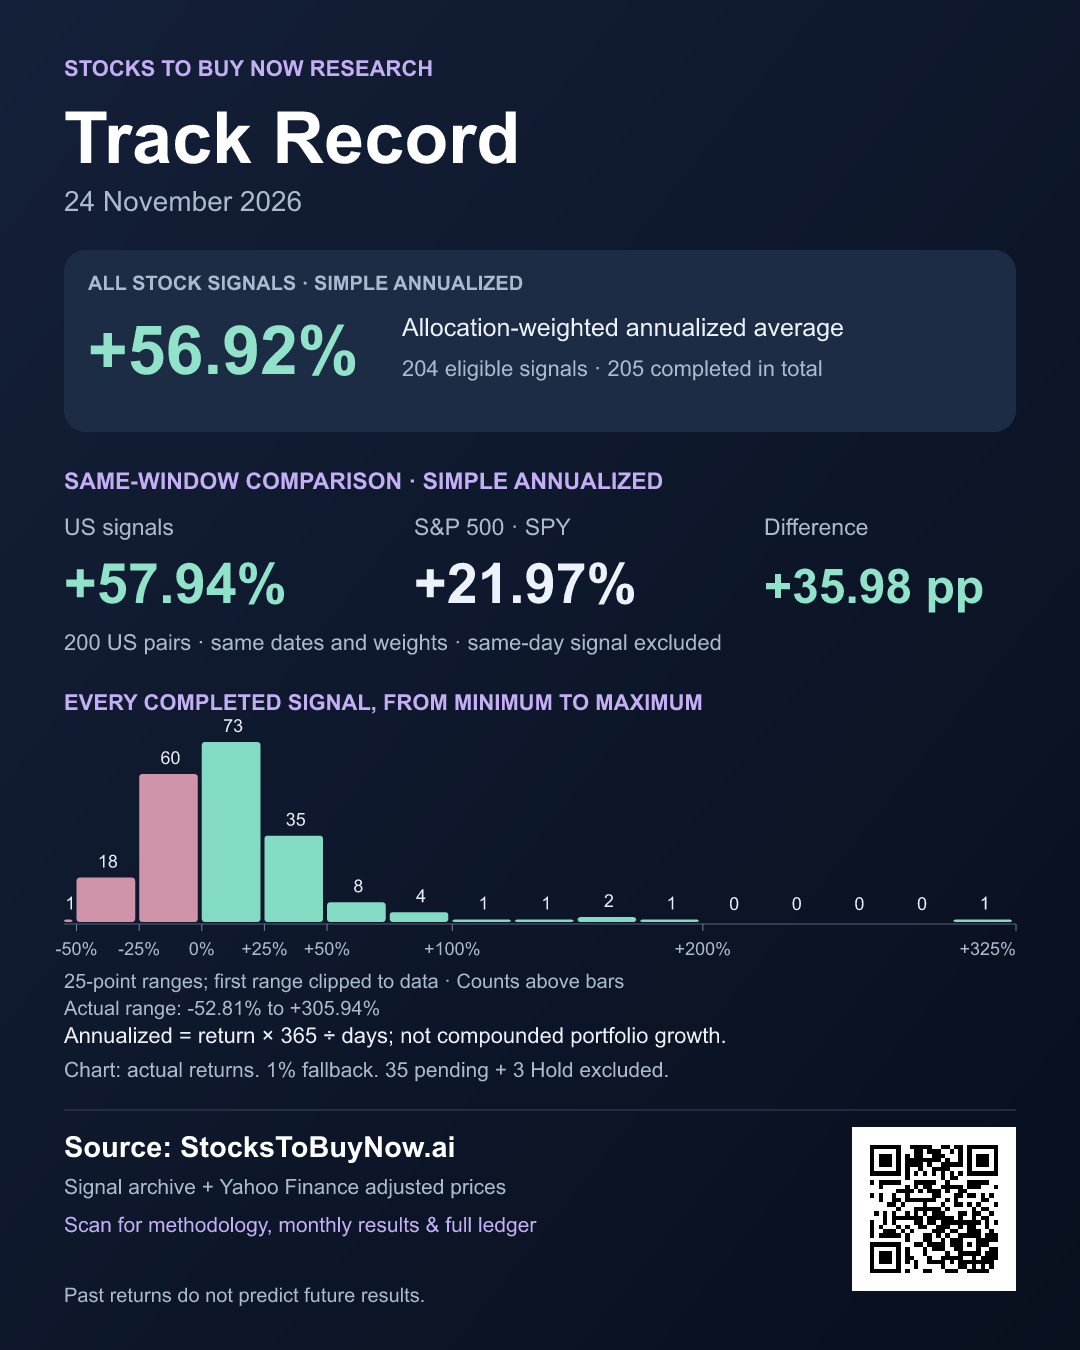
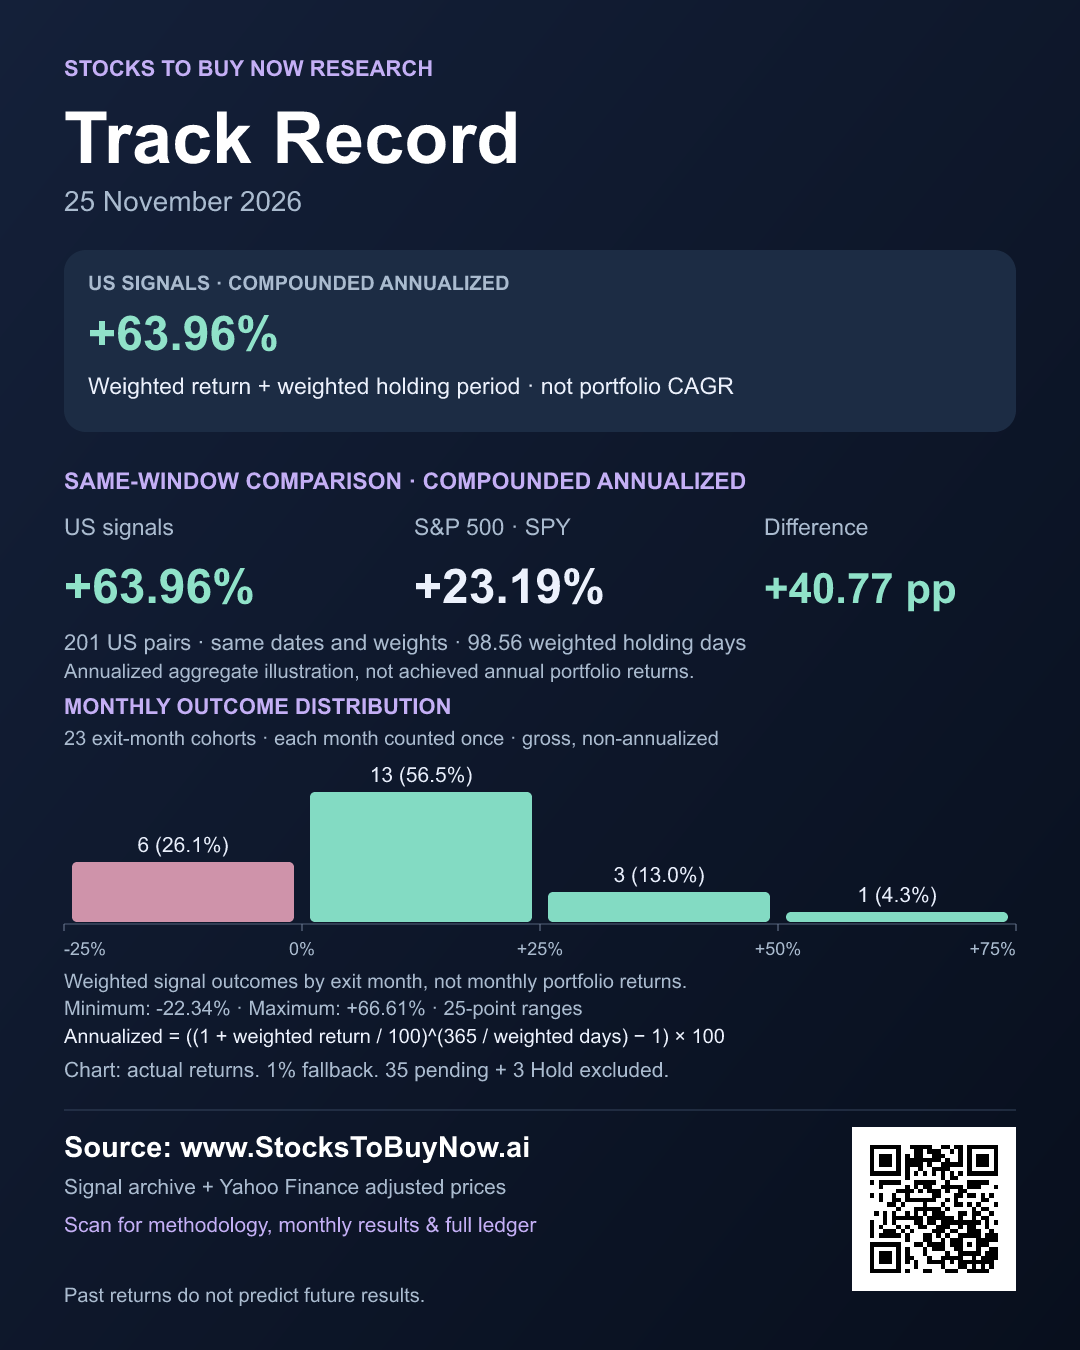
add monthly distrib

diff --git a/pages/methodology.tsx b/pages/methodology.tsx
@@ -5,9 +5,18 @@ import {accountLoginUrl} from "../lib/site-auth";
 import report from "../data/target-date-performance-2025-12-31.json";
 import distribution from "../data/signal-return-distribution-2025-12-31.json";
 const s = report.summary;
+const monthlyReturns = s.months.map(month => month.meanReturnPct);
+const monthlyMin = Math.min(...monthlyReturns), monthlyMax = Math.max(...monthlyReturns);
+const monthlyBinStart = Math.floor(monthlyMin / 25) * 25;
+const monthlyBins = Array.from({length: Math.floor((monthlyMax - monthlyBinStart) / 25) + 1}, (_, index) => {
+ const low = monthlyBinStart + index * 25, high = low + 25;
+ return {low, high, count: monthlyReturns.filter(value => value >= low && value < high).length};
+});
+const annual = distribution.compoundedAnnualized;
+const annualPct = (n: number) => pct(n);
 const pct = (n: number | null) => n === null ? '—' : `${n > 0 ? '+' : ''}${n.toFixed(2)}%`;
 const cutoff = new Date(`${report.asOf}T12:00:00Z`).toLocaleDateString('en-US', {month:'long',day:'numeric',year:'numeric',timeZone:'UTC'});
-export default function Methodology() {
+export default function Methodology({appView=false}:{appView?:boolean}={}) {
  const {desktop,user}=useSiteAccount();
  const practiceDestination='/methodology/#paper-trading-download';
  return <ResearchPage title="Stock signals scorecard and research methodology" path="/methodology" hideResearchNavigation>
@@ -17,13 +26,22 @@ export default function Methodology() {
    <p>Historical stock signals evaluated through <strong>{cutoff}</strong>, inclusive. Returns run from the first eligible session open after publication to the close on the saved Target Sell Date.</p>
    </header><nav aria-label="Methodology sections"><a href="#scorecard">Scorecard</a><a href="#monthly">Monthly cohorts</a><a href="#ledger">Download ledger</a><a href="#credentials">Credentials</a><a href="#methodology">Methodology</a><a href="#faq">FAQ</a></nav>
    <section id="scorecard" aria-label="Stock signals scorecard"><div className="score-grid">
-    <div className="primary-stat"><span>US signals · weighted gross return</span><strong>{pct(s.meanPairedReturnPct)}</strong><small>Simple annualized: {pct(distribution.annualized.signalPct)}<br/>Same dates and weights as SPY · 1% fallback</small></div>
-    <div className="primary-stat"><span>S&amp;P 500 · matched SPY return</span><strong>{pct(s.meanBenchmarkPct)}</strong><small>Simple annualized: {pct(distribution.annualized.spyPct)}<br/>Same dates and weights as the US signals below</small></div>
+    <div className="primary-stat"><span>US signals · weighted gross return</span><strong>{pct(s.meanPairedReturnPct)}</strong><small>Compounded annualized: {annualPct(annual.signalPct)}<br/>Same dates and weights as SPY · 1% fallback</small></div>
+    <div className="primary-stat"><span>S&amp;P 500 · matched SPY return</span><strong>{pct(s.meanBenchmarkPct)}</strong><small>Compounded annualized: {annualPct(annual.spyPct)}<br/>Same dates and weights as the US signals below</small></div>
     <div><span>Estimated net average</span><strong>{pct(s.estimatedNetReturn20bpsPct)}–{pct(s.estimatedNetReturn10bpsPct)}</strong><small>After 0.20%–0.10% assumed round-trip friction</small></div>
     <div><span>Weighted holding period</span><strong>{s.meanHoldingDays.toFixed(1)} days</strong><small>Calendar days from model entry to exit</small></div>
    </div><p className="scope">{s.completed} completed signals in the overall averages. The US comparison covers {s.benchmarkPairs}; the other {s.completed-s.benchmarkPairs} are European listings, measured in their listing currencies.</p>
-   <p className="scope">Annualized figures use return × 365 ÷ holding days, averaged with allocation weights across {distribution.annualized.pairedCount} matched signals. One same-day signal is excluded from annualization. Not compounded portfolio growth.</p>
-   <figure className="distribution" aria-labelledby="distribution-title">
+   <p className="scope">Compounded annualized = ((1 + weighted gross return ÷ 100)^(365 ÷ weighted-average holding days) − 1) × 100. We annualize the final weighted return using the {annual.weightedHoldingDays.toFixed(2)}-day weighted-average holding period across {annual.pairedCount} matching US and SPY windows. This is an annualized illustration of the aggregate, not achieved portfolio growth or a forecast.</p>
+   <figure className="distribution" aria-labelledby="monthly-distribution-title">
+    <figcaption><h2 id="monthly-distribution-title">Monthly outcome distribution</h2><p>All {monthlyReturns.length} exit-month cohorts · each month counted once · weighted gross, non-annualized signal returns.</p></figcaption>
+    <div className="distribution-range"><span>Minimum <b>{pct(monthlyMin)}</b></span><span>Maximum <b>{pct(monthlyMax)}</b></span></div>
+    <ol aria-label="Month counts by cohort return range, lowest to highest">{monthlyBins.map(bin => <li key={bin.low}>
+     <span className="bin-label">{bin.low}% to &lt;{bin.high}%</span>
+     <span className="bin-track" aria-hidden="true"><span className={bin.high <= 0 ? 'bin-fill bin-negative' : 'bin-fill'} style={{width:`${100 * bin.count / Math.max(...monthlyBins.map(b => b.count))}%`}} /></span>
+     <span className="bin-count">{bin.count} <small>({(100 * bin.count / monthlyReturns.length).toFixed(1)}%)</small></span>
+    </li>)}</ol><p className="scope">Uses the Weighted gross return column in the <a href="#monthly">Monthly Cohort Table below</a>. Each value averages full holding-period signal returns by exit month, not portfolio performance during that month. 25-percentage-point ranges, inclusive at the lower bound; months count equally.</p>
+   </figure>
+   {!appView && <figure className="distribution" aria-labelledby="distribution-title">
     <figcaption><h2 id="distribution-title">Signal return distribution</h2><p>All {distribution.count} completed signals · each signal counted once · gross, non-annualized returns.</p></figcaption>
     <div className="distribution-range"><span>Minimum <b>{pct(distribution.min)}</b></span><span>Maximum <b>{pct(distribution.max)}</b></span></div>
     <ol aria-label="Signal counts by return range, lowest to highest">{distribution.bins.map(bin => <li key={bin.low}>
@@ -31,8 +49,8 @@ export default function Methodology() {
      <span className="bin-track" aria-hidden="true"><span className={bin.high <= 0 ? 'bin-fill bin-negative' : 'bin-fill'} style={{width:`${100 * bin.count / Math.max(...distribution.bins.map(b => b.count))}%`}} /></span>
      <span className="bin-count">{bin.count} <small>({(100 * bin.count / distribution.count).toFixed(1)}%)</small></span>
     </li>)}</ol><p className="scope">25-percentage-point ranges, inclusive at the lower bound. Pending and Hold signals are excluded; this is a count distribution, not allocation-weighted.</p>
-   </figure>
-   <div className="benchmark"><h2>Same-window US comparison</h2><div><span>US signals<strong>{pct(s.meanPairedReturnPct)}</strong><small>Simple annualized: {pct(distribution.annualized.signalPct)}</small></span><span>SPY<strong>{pct(s.meanBenchmarkPct)}</strong><small>Simple annualized: {pct(distribution.annualized.spyPct)}</small></span><span>Average difference<strong>+{s.meanExcessPct.toFixed(2)} pp</strong><small>Annualized difference: +{(distribution.annualized.signalPct-distribution.annualized.spyPct).toFixed(2)} pp</small></span></div><p>Allocation-weighted averages across the same {s.benchmarkPairs} entry/exit windows. Annualized figures cover {distribution.annualized.pairedCount} matched windows, excluding one same-day signal, using return × 365 ÷ holding days. Not a compounded portfolio return.</p></div></section>
+   </figure>}
+   <div className="benchmark"><h2>Same-window US comparison</h2><div><span>US signals<strong>{pct(s.meanPairedReturnPct)}</strong><small>Compounded annualized: {annualPct(annual.signalPct)}</small></span><span>SPY<strong>{pct(s.meanBenchmarkPct)}</strong><small>Compounded annualized: {annualPct(annual.spyPct)}</small></span><span>Average difference<strong>+{s.meanExcessPct.toFixed(2)} pp</strong><small>Compounded annualized difference: {annualPct(annual.signalPct-annual.spyPct).replace('%',' pp')}</small></span></div><p>Allocation-weighted gross returns across {s.benchmarkPairs} entry/exit windows, compounded to one year using the same {annual.weightedHoldingDays.toFixed(2)}-day weighted-average holding period.</p></div></section>
    <section id="monthly"><p className="section-kicker">01 / Historical outcomes</p><h2>Monthly Cohort Table</h2><p>Full holding-period returns grouped by exit month, not monthly portfolio returns. Includes completed exits through December 31, 2025. All figures in this table are gross, non-annualized returns.</p><div className="table-wrap"><table><caption>Monthly breakdown by target-date exit</caption><thead><tr><th scope="col">Exit month</th><th scope="col">Signals</th><th scope="col">Weighted gross return</th><th scope="col">Median (unweighted)</th><th scope="col">US pairs</th><th scope="col">Weighted US average</th><th scope="col">Weighted SPY average</th></tr></thead><tbody>{s.months.map(r=><tr key={r.month}><th scope="row">{new Date(`${r.month}-01T12:00:00Z`).toLocaleDateString("en-US",{month:"short",year:"numeric",timeZone:"UTC"})}</th><td>{r.completed}</td><td className={r.meanReturnPct < 0 ? "negative" : "positive"}>{pct(r.meanReturnPct)}</td><td>{pct(r.medianReturnPct)}</td><td>{r.benchmarkPairs}</td><td>{pct(r.meanPairedReturnPct)}</td><td>{pct(r.meanBenchmarkPct)}</td></tr>)}</tbody></table></div></section>
 <section id="ledger" className="ledger-panel"><p className="section-kicker">02 / Check the numbers</p><h2>Downloadable Ledger</h2><p>Download the formula-based workbook to trace summary averages and monthly medians to individual signals. It includes entry and exit dates, adjusted prices, same-window SPY prices, gross returns and separate assumed-cost scenarios.</p><div className="downloads"><a download href="/data/stock-signals-2025-12-31.xlsx">Download spreadsheet · December 2025</a><a download href="/data/stock-signals-us-2025-12-31.csv">Download US comparison · {s.benchmarkPairs} signals</a><a download href="/data/stock-signals-2025-12-31-method.json">Calculation metadata</a></div><p className="scope">The workbook includes all {s.completed} completed signals. The {s.statuses.target_pending} pending and {s.statuses.hold_no_target} Hold records are excluded from completed results and public downloads. The four European signals have no US benchmark value.</p></section>
    <section id="credentials"><p className="section-kicker">03 / Behind the research</p><h2>Founder credentials &amp; research scope</h2><p>Aness Hussein Ali’s published credentials include a Berkeley Haas Master of Financial Engineering, awarded May 16, 2014, and employment documents for Goldman Sachs and Bank of America / Merrill Lynch International.</p><ul className="credential-links"><li><a href="/assets/credentials/aness-hussein-ali-berkeley-mfe-2014.jpeg">Berkeley MFE diploma</a></li><li><a href="/goldman-sachs-employment-letter.pdf">Goldman Sachs employment letter</a></li><li><a href="/bank-of-america-employment-letter.pdf">Bank of America / Merrill Lynch employment letter</a></li><li><a href="/authors/aness-hussein-ali/">Full founder profile and professional history</a></li></ul></section>
@@ -40,7 +58,7 @@ export default function Methodology() {
     <li><strong>Universe and timing.</strong> Method {report.version} uses all saved stock signals published by {cutoff}. Entries use the first exchange-session open at or after the later saved publication/recommendation timestamp. Intraday and after-hours signals enter the next session. Exits use the saved Target Sell Date, rolling forward if markets are closed. Later targets remain pending; zero means Hold.</li>
     <li><strong>Prices and comparison.</strong> Yahoo Finance daily split/dividend-adjusted prices; adjusted open equals open × adjusted close ÷ close. Gross return is direction × (exit ÷ entry − 1). SPY uses identical dates for US signals. Each signal’s suggested allocation is used as its weight: saved risk levels map to 7%, 5%, 3%, 2% or 1%. When no weight was saved, a 1% fallback is used ({report.allocation.imputedWeights} of {s.completed} completed signals). Weighted average = sum of weight × return ÷ sum of weights. SPY uses identical weights and dates. Medians remain unweighted. </li>
     <li><strong>Risk and friction.</strong> The median and full signal-return distribution complement the average. Gross figures exclude costs; net scenarios subtract an assumed 0.10 or 0.20 percentage points per signal for round-trip spread/slippage. These are assumptions, not measured execution costs.</li>
-    <li><strong>Annualization and review.</strong> The allocation-weighted simple annualized rate is {pct(s.meanSimpleAnnualizedReturnPct)}: return × 365 ÷ calendar holding days, weighted over {s.simpleAnnualizedCount} signals. This is a non-compounded mathematical rate, not a forecast. One same-day signal is excluded only from annualization. Median compounded annualization is {pct(s.medianAnnualizedReturnPct)} using (1 + return)^(365 ÷ days) − 1; short-duration outliers make the compounded mean unsuitable as a headline. The dated CSVs support independent recalculation. Past performance does not guarantee future results.</li>
+    <li><strong>Compounded annualized calculation.</strong> First calculate weighted gross return R = sum(weight × returnPct) ÷ sum(weight), and weighted holding period D = sum(weight × calendar holding days) ÷ sum(weight). Then calculate ((1 + R ÷ 100)^(365 ÷ D) − 1) × 100. Apply this separately to signals and SPY across the same {annual.pairedCount} US windows, with identical weights and D = {annual.weightedHoldingDays.toFixed(2)} days. Same-day records remain in both weighted averages; no per-signal annualization or cap is applied. Monthly cohorts and the distribution retain actual holding-period returns. The dated CSV supports recalculation. Past performance does not guarantee future results.</li>
    </ul></section>
    <aside className="ledger-panel" style={{marginTop:24}} aria-labelledby="proof-title"><p className="section-kicker">Verify the evidence</p><h2 id="proof-title">Verified Audited Performance</h2><p>Explore record fingerprints, pending submissions and confirmed OpenTimestamps proofs. For revealed records, download the evidence and check it yourself.</p><a href="/signal-archive/">Explore timestamp proofs →</a><p className="scope">A confirmed proof and audited investment performance.</p></aside>
    <section id="faq" className="faq-section" aria-labelledby="faq-title">

diff --git a/components/MonthlyTrackRecord.tsx b/components/MonthlyTrackRecord.tsx
@@ -1,0 +1,25 @@
+import report from '../data/target-date-performance-2025-12-31.json';
+const values = report.summary.months.map(month => month.meanReturnPct);
+const min = Math.min(...values), max = Math.max(...values);
+const start = Math.floor(min / 25) * 25;
+const bins = Array.from({length: Math.floor((max - start) / 25) + 1}, (_, i) => {
+ const low = start + i * 25;
+ return {low, high: low + 25, count: values.filter(v => v >= low && v < low + 25).length};
+});
+const pct = (n:number) => `${n > 0 ? '+' : ''}${n.toFixed(2)}%`;
+export default function MonthlyTrackRecord() {
+ return <section className="track-preview" aria-label="Monthly track record">
+  <p className="eyebrow">Track record · Stocks to Buy Now Research</p>
+  <h2>Monthly outcome distribution</h2>
+  <p>All {values.length} exit-month cohorts · each month counted once · weighted gross, non-annualized signal returns.</p>
+  <div className="range"><span>Minimum<strong>{pct(min)}</strong></span><span>Maximum<strong>{pct(max)}</strong></span></div>
+  <ol aria-label="Month counts by cohort return range">{bins.map(bin => <li key={bin.low}>
+   <span>{bin.low}% to &lt;{bin.high}%</span><span className="track" aria-hidden="true"><span style={{width:`${100 * bin.count / Math.max(...bins.map(b=>b.count))}%`,background:bin.high<=0?'#c18eab':'#87d4bd'}}/></span><span className="count">{bin.count} <small>({(100*bin.count/values.length).toFixed(1)}%)</small></span>
+  </li>)}</ol>
+  <p className="note">Full holding-period signal outcomes grouped by exit month—not monthly portfolio returns. 25-percentage-point ranges; months count equally. Past returns do not predict future results.</p>
+  <a href="/methodology/" data-public-content="true">Explore the track record <span aria-hidden="true">→</span></a>
+  <style jsx>{`
+   .track-preview{margin:28px 0;padding:30px;border:1px solid #2b3750;border-radius:22px;background:#0e1728;color:#c2ccdc;font-size:14px;line-height:1.65}.track-preview h2{color:#f0f4fc;font-size:clamp(23px,3vw,32px);margin:10px 0 14px;line-height:1.2}.eyebrow{color:#bca5f4;font-size:11px;letter-spacing:.08em;text-transform:uppercase}.range{display:flex;justify-content:space-between;gap:20px;margin:24px 0}.range strong{display:block;color:#edf3ff;font-size:25px}.range>span:last-child{text-align:right}ol{padding:0;list-style:none}li{display:grid;grid-template-columns:110px minmax(0,1fr) 95px;gap:14px;align-items:center;margin:12px 0;font-variant-numeric:tabular-nums}.track{background:#1c283b;border-radius:5px;height:16px;overflow:hidden}.track>span{display:block;height:100%;border-radius:5px}.count{text-align:right}small,.note{color:#98aac2}.note{font-size:12px;margin:22px 0}a{display:inline-flex;align-items:center;justify-content:center;gap:20px;background:#bca5f4;color:#151025;padding:13px 20px;min-height:48px;box-sizing:border-box;border-radius:10px;font-weight:650;text-decoration:none}a:hover{background:#d0bfff}a:focus-visible{outline:2px solid #fff;outline-offset:4px}@media(max-width:600px){.track-preview{padding:20px}li{grid-template-columns:90px minmax(0,1fr) 77px;gap:7px;font-size:11px}a{width:100%}}
+  `}</style>
+ </section>;
+}

diff --git a/components/MembershipPlans.tsx b/components/MembershipPlans.tsx
@@ -2,6 +2,7 @@ import {useEffect,useState,type PointerEvent} from 'react';
 import {AccountLink,useSiteAccount} from './SiteAccount';
 import {canOfferMembership,refreshMembershipStatus} from '../lib/membership-status';
 import TrustpilotWidget from './TrustpilotWidget';
+import MonthlyTrackRecord from './MonthlyTrackRecord';
 import styles from '../styles/DesktopProduct.module.css';
 function movePlanLight(event:PointerEvent<HTMLAnchorElement>){
  if(event.pointerType==='touch')return;
@@ -41,5 +42,6 @@ export default function MembershipPlans({onExplorePro,onExploreFree,verifiedInac
  <section className={styles.membershipTrust} aria-label="Independent Trustpilot reviews">
   <TrustpilotWidget templateId="53aa8912dec7e10d38f59f36" businessUnitId="670a2355c53c6130a02f3e50" height="124px"/>
  </section>
+ <MonthlyTrackRecord />
  <p className={styles.disclosure}>Research and educational tools. Investing involves risk; membership does not guarantee returns. Macro Driven Financial Headlines and Market Prediction Recaps manually curated by former Goldman Sachs (New York) and Bank of America Directors (London).</p>
  </section>}

diff --git a/components/ResearchPage.tsx b/components/ResearchPage.tsx
@@ -40,6 +40,7 @@ export default function ResearchPage({title, path, children, description = title
           {href:'/glossary',label:'Investing glossary',icon:'M12 5v15 M12 5C8 2 4 3 2 4v15c3-2 7-2 10 1 3-3 7-3 10-1V4c-2-1-6-2-10 1'},
           {href:'/editorial-policy',label:'Editorial standards',icon:'M12 3l8 3v6c0 5-8 9-8 9s-8-4-8-9V6l8-3 M8 12l3 3 5-6'},
           {href:'/methodology',label:'Research methodology',icon:'M4 6h16 M4 12h16 M4 18h16 M8 3v6 M16 9v6 M10 15v6'},
+          {href:'/learn',label:'Free educational courses',icon:'M2 9l10-5 10 5-10 5-10-5 M6 11v6c4 3 8 3 12 0v-6 M22 9v7'},
         ].map(resource => {
           const current = path.split('?')[0];
           const active = current === resource.href || current.startsWith(resource.href + '/') || (resource.href === '/stocks' && current.startsWith('/instruments/'));

diff --git a/pages/track-record-app.tsx b/pages/track-record-app.tsx
@@ -1,0 +1,3 @@
+import Methodology from './methodology';
+// Same figures and methodology, with only the monthly distribution for the app.
+export default function AppTrackRecord(){return <Methodology appView/>;}
